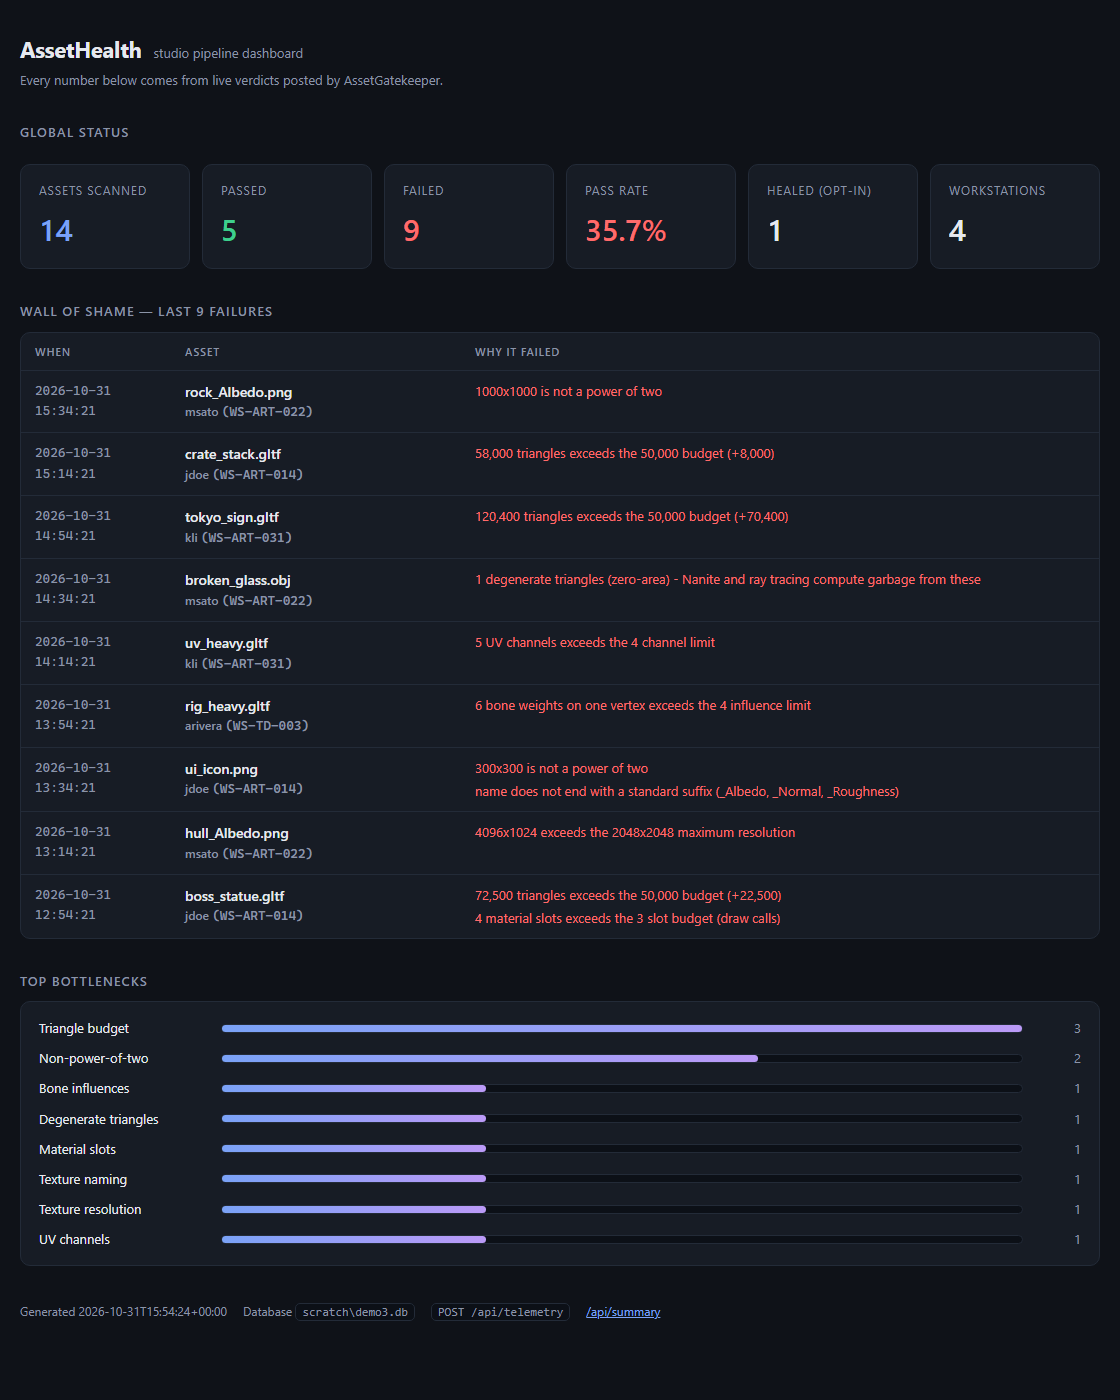
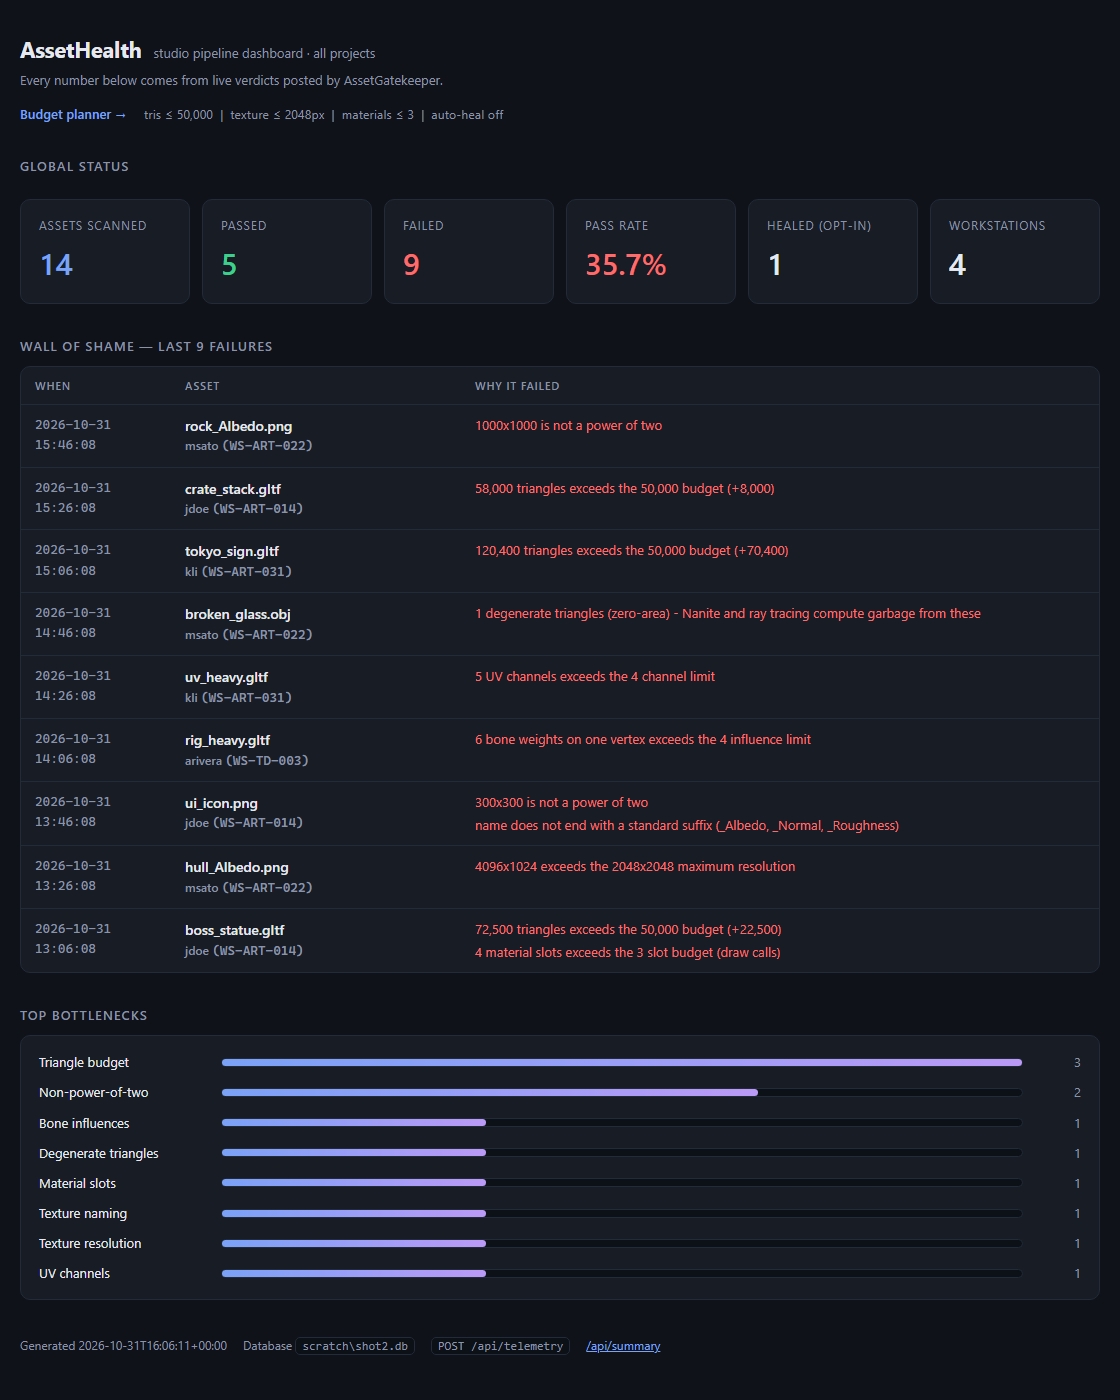
Style the dashboard nav and refresh its screenshot
The scoped dashboard rendered its nav with browser defaults: the dashboard
stylesheet had no nav rule at all (it lived in the planner stylesheet), so the
planner link came out small, blue and underlined next to unreadable budget chips.

diff --git a/server/asset_health_server.py b/server/asset_health_server.py
@@ -769,6 +769,11 @@ td.name { font-weight: 600; }
 footer { color: var(--muted); font-size: 12px; margin-top: 36px; display: flex; gap: 16px; flex-wrap: wrap; }
 code { background: #0c1017; border: 1px solid var(--line); border-radius: 5px; padding: 1px 6px;
        font-family: ui-monospace, Consolas, monospace; font-size: 12px; }
+nav { display: flex; gap: 18px; margin-top: 14px; font-size: 13px; flex-wrap: wrap;
+      align-items: baseline; }
+nav a { color: var(--accent); text-decoration: none; font-weight: 600; }
+nav a:hover { text-decoration: underline; }
+nav .chips { color: var(--muted); font-size: 12px; letter-spacing: 0.02em; }
 @media (prefers-reduced-motion: reduce) { * { transition: none !important; } }
 """
 
@@ -807,8 +812,7 @@ button.secondary { background: transparent; color: var(--text); border: 1px soli
 .notice.ok { display: block; color: var(--good); border-color: #1d4034; background: #10231c; }
 .notice.err { display: block; color: var(--bad); border-color: #4a2020; background: #241314; }
 .hint { color: var(--muted); font-size: 12px; margin-top: 8px; }
-nav { display: flex; gap: 14px; margin-top: 10px; font-size: 13px; }
-nav a { color: var(--accent); text-decoration: none; }
+/* nav is styled by the shared stylesheet (see CSS above) */
 """
 
 
@@ -878,10 +882,10 @@ def render_dashboard(db_path: str | Path, project_id: int | None = None,
   {f'<div class="notice err" style="display:block">{_e(warn)}</div>' if warn else ''}
   <nav>
     <a href="{planner_href}">Budget planner &rarr;</a>
-    <span class="sub">tris&le;{budget['max_triangles']:,} &middot;
-      texture&le;{budget['max_texture_edge']} &middot;
-      mats&le;{budget['max_material_slots']} &middot;
-      heal={'on' if budget['auto_heal'] else 'off'}</span>
+    <span class="chips">tris &le; {budget['max_triangles']:,} &nbsp;|&nbsp;
+      texture &le; {budget['max_texture_edge']}px &nbsp;|&nbsp;
+      materials &le; {budget['max_material_slots']} &nbsp;|&nbsp;
+      auto-heal {'on' if budget['auto_heal'] else 'off'}</span>
   </nav>
 
   <h2>Global status</h2>
